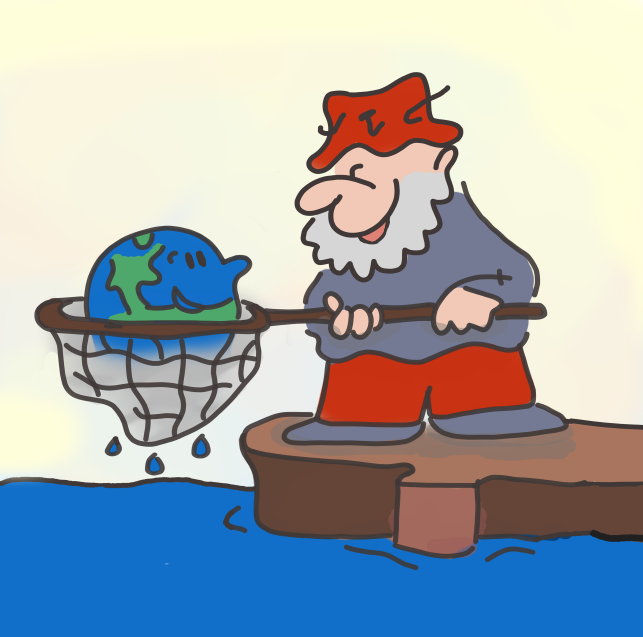
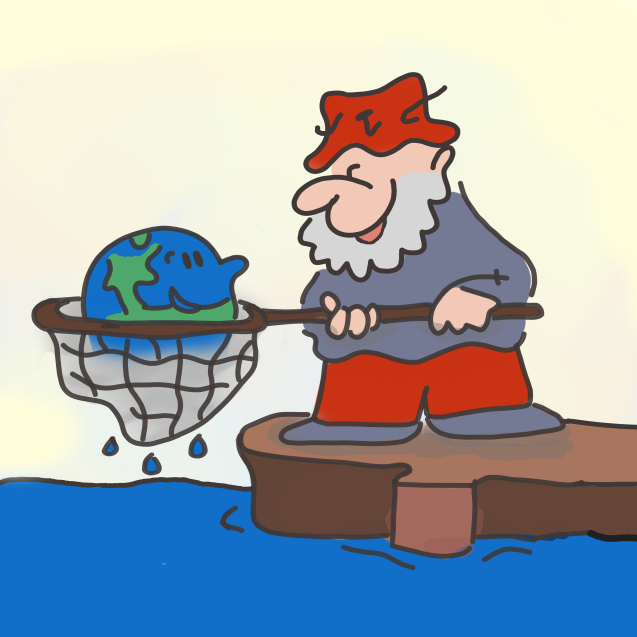
sutysisku: improve localization

diff --git a/src/sutysisku/template/index.js b/src/sutysisku/template/index.js
@@ -2,66 +2,6 @@
 import io from './socket.io.js'
 import { initBackend } from './asql/indexeddb-main-thread.js'
 
-//queue
-
-class Queue {
-  constructor() {
-    this._items = []
-  }
-  enqueue(item) {
-    this._items.push(item)
-  }
-  dequeue() {
-    const withVlaste = this._items.filter((i) => i.name === 'vlaste').slice(-1)
-    const notWithVlaste = this._items.filter((i) => i.name !== 'vlaste')
-    this._items = withVlaste.concat(notWithVlaste)
-    return this._items.shift()
-  }
-  get size() {
-    return this._items.length
-  }
-}
-
-class AutoQueue extends Queue {
-  constructor() {
-    super()
-    this._pendingPromise = false
-  }
-
-  enqueue(action, name) {
-    return new Promise((resolve, reject) => {
-      super.enqueue({ name, action, resolve, reject })
-      this.dequeue()
-    })
-  }
-
-  async dequeue() {
-    if (this._pendingPromise) return false
-
-    const item = super.dequeue()
-
-    if (!item) return false
-
-    try {
-      this._pendingPromise = true
-
-      const payload = await item.action(this)
-
-      this._pendingPromise = false
-      item.resolve(payload)
-    } catch (e) {
-      this._pendingPromise = false
-      item.reject(e)
-    } finally {
-      this.dequeue()
-    }
-
-    return true
-  }
-}
-
-const aQueue = new AutoQueue()
-
 //DOM element vars:
 const content = document.getElementById('content')
 const ciska = document.getElementById('ciska')
@@ -149,7 +89,7 @@ let results = []
 //search after timeout
 let typingTimer
 //prepare:
-const state = {
+let state = {
   searching: {
     seskari: 'cnano',
     versio: 'masno',
@@ -333,36 +273,45 @@ ciska.addEventListener('focus', focusSearch)//focus > push
 clear.addEventListener('click', window.EmptyState)
 
 rimni.addEventListener('click', () => {//change seskari
-  state.searching = {
-    ...state.displaying,
-    seskari: 'rimni',
-    versio: 'masno',
-    query: plukaquery(ciska.value),
-  }
+  setState({
+    searching: {
+      ...state.displaying,
+      seskari: 'rimni',
+      versio: 'masno',
+      query: plukaquery(ciska.value),
+    }
+  });
+
   DispatchState({
     replace: false,
   })
 })
 
 document.getElementById('cnano').addEventListener('click', () => {
-  state.searching = {
-    ...state.displaying,
-    seskari: 'cnano',
-    versio: 'masno',
-    query: plukaquery(ciska.value),
-  }
+  setState({
+    searching: {
+      ...state.displaying,
+      seskari: 'cnano',
+      versio: 'masno',
+      query: plukaquery(ciska.value),
+    }
+  });
+
   DispatchState({
     replace: false,
   })
 })
 
 document.getElementById('catni').addEventListener('click', () => {
-  state.searching = {
-    ...state.displaying,
-    seskari: 'catni',
-    versio: 'masno',
-    query: plukaquery(ciska.value),
-  }
+  setState({
+    searching: {
+      ...state.displaying,
+      seskari: 'catni',
+      versio: 'masno',
+      query: plukaquery(ciska.value),
+    }
+  });
+
   DispatchState({
     replace: false,
   })
@@ -709,7 +658,12 @@ function RenderResults({ query, seskari, bangu, versio }) {
     SwitchRotation({
       action: 'stop',
     })
-  state.displaying = { ...state.displaying, query, versio, seskari, bangu }
+  setState({
+    displaying: {
+      ...state.displaying,
+      query, versio, seskari, bangu
+    }
+  })
   outp.style.display = 'block'
   descr.style.display = 'none'
   drata.style.display = 'none'
@@ -1216,6 +1170,19 @@ function DispatchCitri() {
   RenderCitri()
 }
 //Dispatch State
+function mergeJSONs(a, b) {
+  return Object.entries(b).reduce((o, [k, v]) => {
+    o[k] = v && typeof v === 'object'
+      ? mergeJSONs(o[k] = o[k] || (Array.isArray(v) ? [] : {}), v)
+      : v;
+    return o;
+  }, a);
+}
+
+function setState(newState) {
+  state = mergeJSONs(state, newState)
+}
+
 function DispatchState({ replace, caller, empty, quickRotation }) {
   updateLocales()
   // if (socket1Chat) socket1Chat.close()
@@ -1306,8 +1273,8 @@ function updateDOMWithLocales(jufra, miniState) {
     velsku.href = `#seskari=cnano&sisku=lai jbosnu&bangu=${getStateBangu()}&versio=masno`
 }
 
-function updateLocales() {
-  if ((state.searching.bangu && state.searching.bangu !== state.displaying.bangu) || !loadingState.localesLoaded)
+function updateLocales(force) {
+  if ((state.searching.bangu && state.searching.bangu !== state.displaying.bangu) || !loadingState.localesLoaded || force)
     worker.postMessage({ kind: 'fancu', cmene: 'sanji_letejufra', ...state.searching })
 }
 
@@ -1321,7 +1288,7 @@ function RenderDesktop(tempState) {
   removePlumbs()
   content.scrollTop = 0
   const lastQuery = tempState.query
-  state.displaying.query = ''
+  setState({ displaying: { query: '' } })
   // ciska.value = "";
   SiteTitleFull.classList.add('desktop-mode-title-color')
   SiteTitleFull.classList.remove(
@@ -1773,6 +1740,16 @@ function ConstructArxivoValsiExtract(d, query, range) {
 
 window.ningau_lepasorcu = (url, bangu) => {
   if (url.indexOf('http') === 0) return
+  setState({
+    searching: {
+      bangu
+    },
+    displaying: {
+      bangu
+    }
+  });
+  updateLocales(true)
+
   worker.postMessage({
     kind: 'fancu',
     cmene: 'ningau_lepasorcu',

diff --git a/src/sutysisku/template/worker.js b/src/sutysisku/template/worker.js
@@ -70,11 +70,6 @@ const aQueue = new AutoQueue()
 self.onmessage = function (ev) {
 	if (ev.data.kind == 'newSearch') {
 		aQueue.enqueue(() => {
-			// let q = `SELECT 'ok' from valsi where regexp('ok','oka')`
-			// let bangu='muplis', query_apos='nilce'
-			// const rows = runQuery(`select distinct d,n,w,r,bangu,s,t,cache from valsi where cache like ? and (bangu = ? or bangu like ?)`, ["%" + query_apos + "%", bangu, bangu + "-%"])
-			// console.log(rows);
-
 			sisku(ev.data, function (res) {
 				self.postMessage({
 					kind: 'searchResults',
@@ -122,7 +117,7 @@ async function initSQLDB() {
 	SQL.FS.mount(sqlFS, {}, '/sql')
 
 	const path = '/sql/db.sqlite'
-	if (typeof SharedArrayBuffer === 'undefined' || (self.sql_mode === 'readall')) {
+	if (typeof SharedArrayBuffer === 'undefined' || (self.sql_mode === 'memoryk')) {
 		let stream = SQL.FS.open(path, 'a+')
 		await stream.node.contents.readIfFallback()
 		SQL.FS.close(stream)
@@ -131,7 +126,7 @@ async function initSQLDB() {
 	db = new SQL.Database('/sql/db.sqlite', { filename: true })
 	db.run(`
 	pragma page_size = 8192;
-	${(self.sql_mode !== 'readallk') ? 'pragma cache_size = 3000;' : ''}
+	${(self.sql_mode === 'memory') ? 'pragma cache_size = 6000;' : ''}
     PRAGMA journal_mode=MEMORY;
 	`)
 	db.run(
@@ -141,19 +136,20 @@ async function initSQLDB() {
 	db.create_function('regexp', (regex, str) => RegExp(regex).test(str))
 	db.run('CREATE TABLE IF NOT EXISTS langs_ready (bangu TEXT, timestamp TEXT)')
 	db.run('CREATE TABLE IF NOT EXISTS tejufra (bangu TEXT, jufra TEXT)')
-	if (self.sql_mode !== 'readallk') {
-		// self.postMessage({
-		// 	kind: 'loader',
-		// 	cmene: 'booting',
-		// })
-		// console.log('booting')
+	if (self.sql_mode === 'memory') {
+		self.postMessage({
+			kind: 'loader',
+			cmene: 'booting',
+		})
+		console.log('booting')
 
-		runQuery(`SELECT w FROM valsi where bangu=?`, ['en'])
-		// self.postMessage({
-		// 	kind: 'loader',
-		// 	cmene: 'loaded',
-		// })
-		// console.log('booted')
+		runQuery(`select w from valsi where bangu='en'`, {})
+
+		self.postMessage({
+			kind: 'loader',
+			cmene: 'loaded',
+		})
+		console.log('booted')
 	}
 }
 

diff --git a/src/sutysisku/morna.ts b/src/sutysisku/morna.ts
@@ -2,7 +2,7 @@ const externalConfig = {
   cll_source: 'https://la-lojban.github.io/uncll/uncll-1.2.14/xhtml_section_chunks/',
   feedback_backend_url: 'https://sutysisku-report.herokuapp.com/',
   issues_repo: "https://github.com/La-Lojban/pinka/issues?q=is%3Aissue+is%3Aopen+sort%3Aupdated-desc",
-  sql_mode: 'readall',
+  sql_mode: 'memory',
   GA_MEASUREMENT_ID: 'UA-45171210-6',
   SUTYSISKU_URL: 'la-lojban.github.io/sutysisku'
 }
